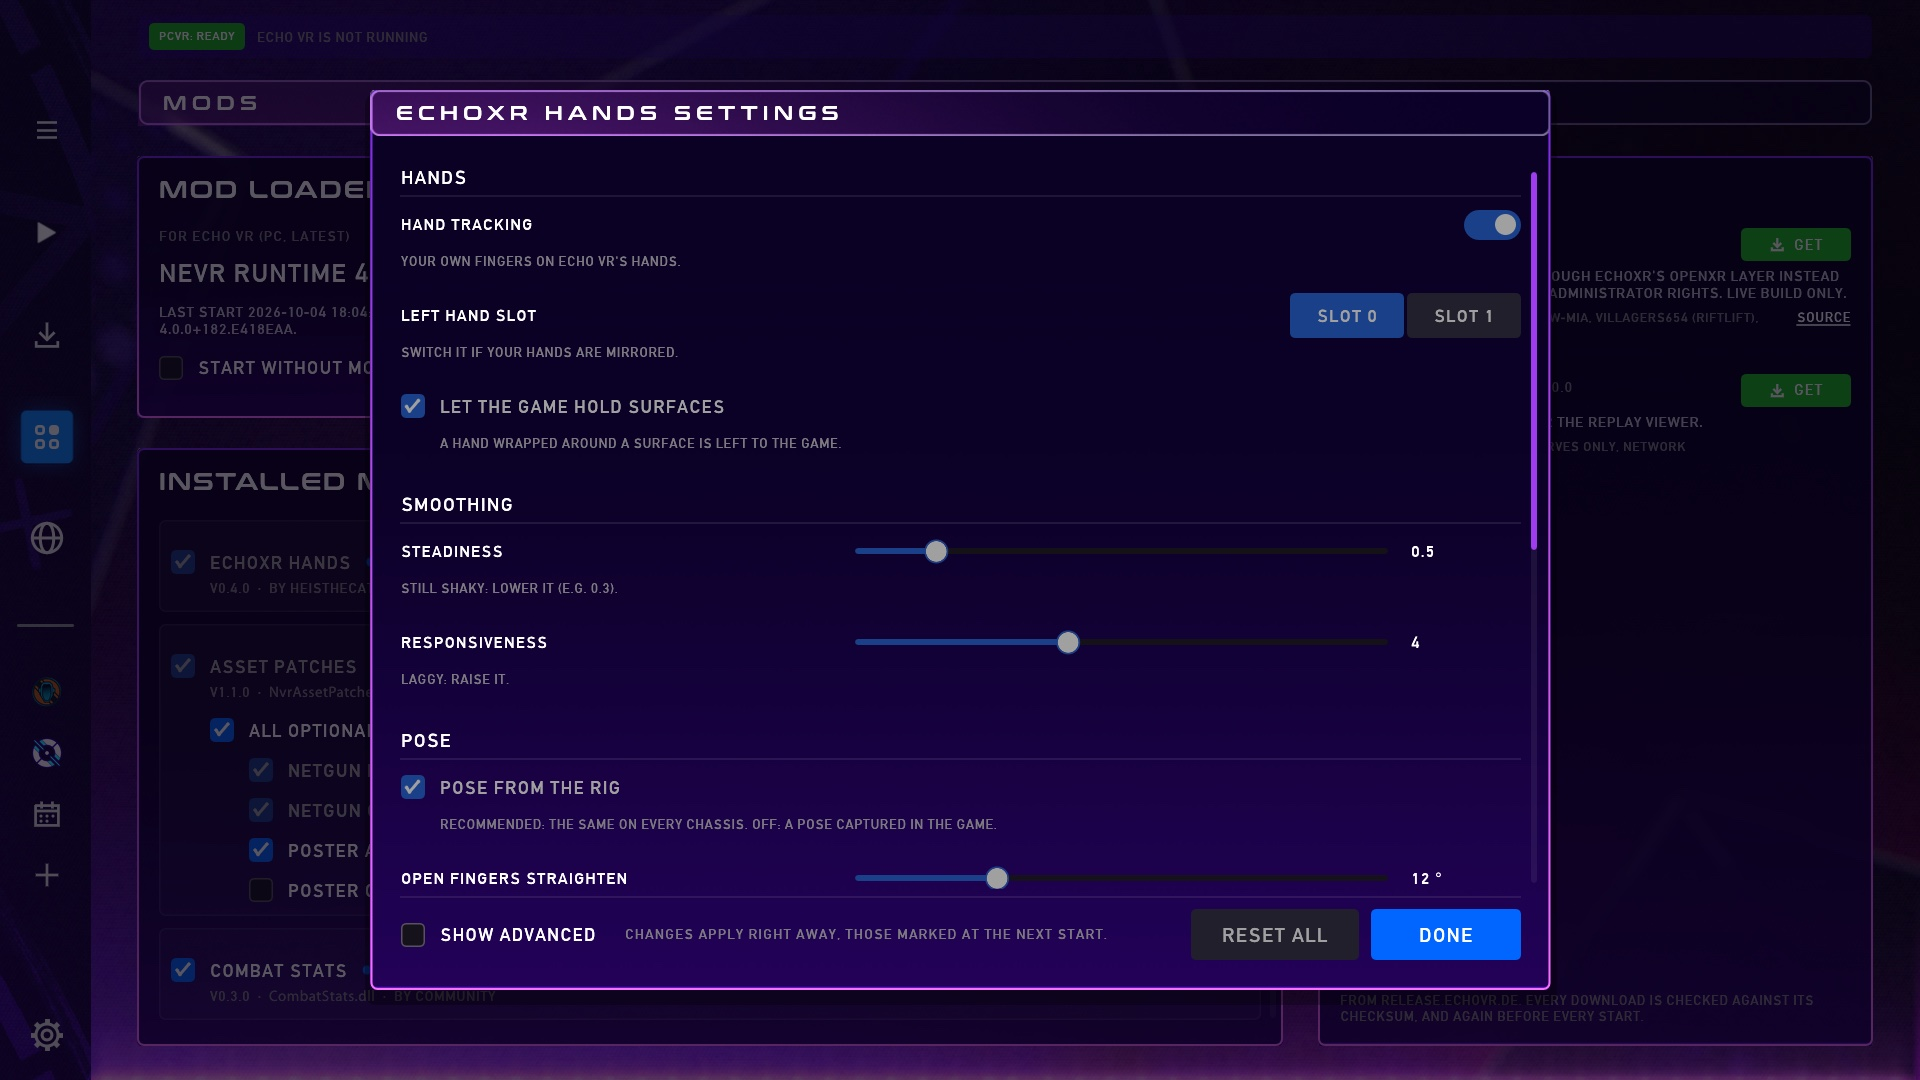
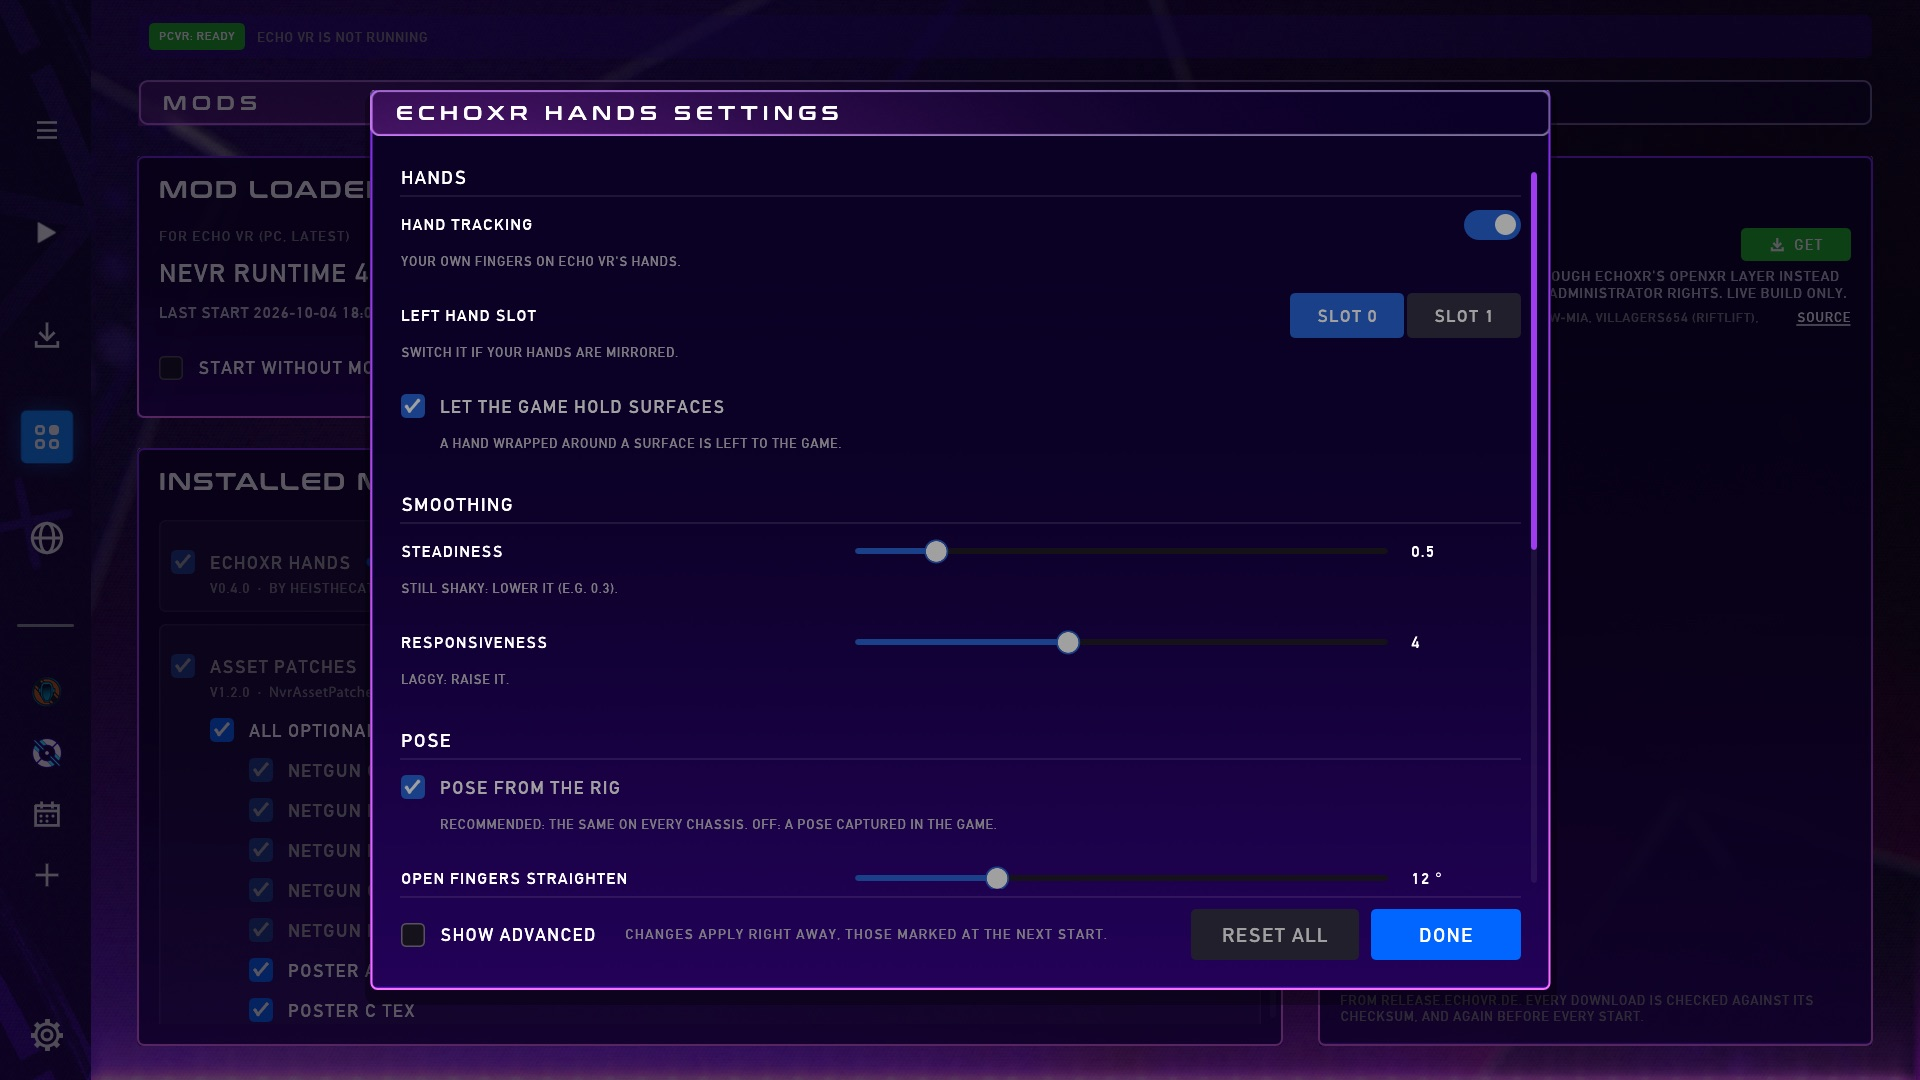
README screenshots: the real mods, plugins and echovrce.com
The Mods page shows what a player has: nEVR 4.0.1, Asset Patches 1.2.0 with
the update's patch list, EchoXR and EchoXR Hands to get. The made-up Combat
Stats, Replay Recorder and broken DLL stay only in the layout-test shots.
Event lobbies shows as installed at its current 0.1.1. The EchoVRCE page is
the real site, signed in, with the account blurred.

diff --git a/src/ui/launcher/mods.rs b/src/ui/launcher/mods.rs
@@ -2321,7 +2321,90 @@ fn showcase() -> serde_json::Value {
     })
 }
 
-/// Made-up mods for snapshots (`variant`: no loader yet, or a plugin's options open).
+/// A made-up catalogue mod and a DLL that fails to load, for the layout tests only.
+fn made_up_plugins() -> Vec<Plugin> {
+    let status = |file: &str, name: &str, version: &str, st: &str, error: &str| PluginStatus {
+        file: file.into(),
+        name: name.into(),
+        version: version.into(),
+        api: 5,
+        status: st.into(),
+        error: error.into(),
+        ..Default::default()
+    };
+    let plugin = |file: &str, name: &str, source: Source, st: PluginStatus| Plugin {
+        file: file.into(),
+        name: name.into(),
+        version: st.version.clone(),
+        added: true,
+        required: false,
+        verified: source != Source::Local,
+        source,
+        enabled: true,
+        args: Default::default(),
+        defaults: Default::default(),
+        present: true,
+        status: Some(st),
+        settings: None,
+    };
+    vec![
+        plugin(
+            "CombatStats.dll",
+            "combat_stats",
+            Source::Catalog {
+                id: "combat-stats".into(),
+                version: "0.3.0".into(),
+            },
+            status("CombatStats.dll", "combat_stats", "0.3.0", "loaded", ""),
+        ),
+        plugin(
+            "MyTweak.dll",
+            "MyTweak",
+            Source::Local,
+            status(
+                "MyTweak.dll",
+                "MyTweak",
+                "",
+                "failed",
+                "missing NvrPluginGetInfo export",
+            ),
+        ),
+    ]
+}
+
+/// The catalogue entries of [`made_up_plugins`] (an update for one, one not installed).
+fn made_up_catalog() -> Vec<ModEntry> {
+    vec![
+        ModEntry {
+            id: "combat-stats".into(),
+            name: "Combat Stats".into(),
+            summary: "Your damage, eliminations and accuracy after every combat round, in a panel on your wrist.".into(),
+            author: "community".into(),
+            version: "0.3.1".into(),
+            file: "CombatStats.dll".into(),
+            url: "mods/CombatStats-0.3.1.dll".into(),
+            sha256: Some("00".repeat(32)),
+            size: Some(412_000),
+            capabilities: vec!["observes-only".into()],
+            ..Default::default()
+        },
+        ModEntry {
+            id: "replay-recorder".into(),
+            name: "Replay Recorder".into(),
+            summary: "Records your matches for the replay viewer.".into(),
+            author: "community".into(),
+            version: "1.0.0".into(),
+            file: "ReplayRecorder.dll".into(),
+            url: "mods/ReplayRecorder-1.0.0.dll".into(),
+            sha256: Some("11".repeat(32)),
+            size: Some(1_830_000),
+            capabilities: vec!["observes-only".into(), "network".into()],
+            ..Default::default()
+        },
+    ]
+}
+
+/// The Mods page for snapshots, as a player has it (`variant`: no loader yet, a plugin's options open...).
 fn demo(variant: Option<SnapVariant>) -> Mods {
     let status = |file: &str, name: &str, version: &str, st: &str, error: &str| PluginStatus {
         file: file.into(),
@@ -2349,47 +2432,27 @@ fn demo(variant: Option<SnapVariant>) -> Mods {
     };
     let bare = variant == Some(SnapVariant::ModsNoLoader);
     let long = variant == Some(SnapVariant::ModsLongText);
-    let mut plugins = vec![
-        plugin(
+    // What a player really has: nEVR's Asset Patches. The layout tests (long text, every control)
+    // get a made-up catalogue mod and a broken DLL of their own; they aren't published.
+    let mut plugins = vec![plugin(
+        "NvrAssetPatches.dll",
+        "NvrAssetPatches",
+        Source::Shipped,
+        Some(status(
             "NvrAssetPatches.dll",
             "NvrAssetPatches",
-            Source::Shipped,
-            Some(status(
-                "NvrAssetPatches.dll",
-                "NvrAssetPatches",
-                "1.1.0",
-                "loaded",
-                "",
-            )),
-        ),
-        plugin(
-            "CombatStats.dll",
-            "combat_stats",
-            Source::Catalog {
-                id: "combat-stats".into(),
-                version: "0.3.0".into(),
-            },
-            Some(status(
-                "CombatStats.dll",
-                "combat_stats",
-                "0.3.0",
-                "loaded",
-                "",
-            )),
-        ),
-        plugin(
-            "MyTweak.dll",
-            "MyTweak",
-            Source::Local,
-            Some(status(
-                "MyTweak.dll",
-                "MyTweak",
-                "",
-                "failed",
-                "missing NvrPluginGetInfo export",
-            )),
-        ),
-    ];
+            "1.2.0",
+            "loaded",
+            "",
+        )),
+    )];
+    let made_up = matches!(
+        variant,
+        Some(SnapVariant::ModsLongText | SnapVariant::ModsSettingsAll)
+    );
+    if made_up {
+        plugins.extend(made_up_plugins());
+    }
     let hands = matches!(
         variant,
         Some(SnapVariant::ModsHands | SnapVariant::ModsSettings | SnapVariant::ModsSettingsAll)
@@ -2462,7 +2525,7 @@ fn demo(variant: Option<SnapVariant>) -> Mods {
             Loader::None
         } else {
             Loader::Nevr {
-                version: "4.0.0+182.e418eaa".into(),
+                version: "4.0.1".into(),
             }
         },
         enabled: true,
@@ -2476,41 +2539,27 @@ fn demo(variant: Option<SnapVariant>) -> Mods {
         game_config: long.then(|| "_local/config.json".into()),
         stray_dbgcore: false,
         assets_enabled: true,
-        asset_patches: vec![
-            asset("netgun_base", true),
-            asset("netgun_combustion", true),
-            asset("poster_a_tex", true),
-            asset("poster_c_tex", false),
-        ],
+        asset_patches: [
+            "netgun_combustion",
+            "netgun_dyson",
+            "netgun_fission",
+            "netgun_gauss",
+            "netgun_base",
+            "poster_a_tex",
+            "poster_c_tex",
+            "poster_d_tex",
+            "poster_b_desc",
+            "poster_b_tex",
+        ]
+        .into_iter()
+        .map(|l| asset(l, true))
+        .collect(),
     };
     let mut catalog = ModCatalog::builtin();
     catalog.builtin = false;
-    catalog.mods.push(ModEntry {
-        id: "combat-stats".into(),
-        name: "Combat Stats".into(),
-        summary: "Your damage, eliminations and accuracy after every combat round, in a panel on your wrist.".into(),
-        author: "community".into(),
-        version: "0.3.1".into(),
-        file: "CombatStats.dll".into(),
-        url: "mods/CombatStats-0.3.1.dll".into(),
-        sha256: Some("00".repeat(32)),
-        size: Some(412_000),
-        capabilities: vec!["observes-only".into()],
-        ..Default::default()
-    });
-    catalog.mods.push(ModEntry {
-        id: "replay-recorder".into(),
-        name: "Replay Recorder".into(),
-        summary: "Records your matches for the replay viewer.".into(),
-        author: "community".into(),
-        version: "1.0.0".into(),
-        file: "ReplayRecorder.dll".into(),
-        url: "mods/ReplayRecorder-1.0.0.dll".into(),
-        sha256: Some("11".repeat(32)),
-        size: Some(1_830_000),
-        capabilities: vec!["observes-only".into(), "network".into()],
-        ..Default::default()
-    });
+    if made_up {
+        catalog.mods.extend(made_up_catalog());
+    }
     let editing = (variant == Some(SnapVariant::ModsOptions)).then(|| Editing {
         defaults: BTreeMap::from([("logging".into(), "normal".into())]),
         file: "NvrAssetPatches.dll".into(),
@@ -2662,10 +2711,12 @@ mod tests {
     #[test]
     fn additional_plugins_are_the_ones_not_here() {
         let m = demo(None);
-        let (_, view, _) = m.view.as_ref().unwrap();
-        let catalog = m.catalog.as_ref().unwrap();
+        let (_, mut view, _) = m.view.clone().unwrap();
+        view.plugins.extend(made_up_plugins());
+        let mut catalog = m.catalog.clone().unwrap();
+        catalog.mods.extend(made_up_catalog());
         let ids = |vr| {
-            extras(Some(view), catalog, vr)
+            extras(Some(&view), &catalog, vr)
                 .iter()
                 .map(|e| e.info().id)
                 .collect::<Vec<_>>()
@@ -2684,7 +2735,7 @@ mod tests {
         // An update is offered on the plugin's row instead.
         let combat = view.plugins.iter().find(|p| p.file == "CombatStats.dll");
         assert_eq!(
-            update_for(combat.unwrap(), Some(catalog)).map(|m| m.version),
+            update_for(combat.unwrap(), Some(&catalog)).map(|m| m.version),
             Some("0.3.1".to_string())
         );
     }

diff --git a/src/ui/launcher/plugins.rs b/src/ui/launcher/plugins.rs
@@ -1130,10 +1130,12 @@ fn demo() -> PluginsUi {
         return ui;
     };
     let id = page.id.clone();
+    // Installed from the catalogue at its current version, as a player has it.
+    let page_version = page.version.clone();
     ui.list.push(Installed {
         page: std::sync::Arc::new(page),
         dir: std::path::PathBuf::new(),
-        from_catalog: Some("0.1.0".into()),
+        from_catalog: Some(page_version),
         warnings: Vec::new(),
     });
     let mut v = View {

diff --git a/README.md b/README.md
@@ -14,11 +14,11 @@ Help and news are on the [Echo VR Lounge Discord](https://discord.com/invite/ech
 |---|---|
 | ![Play](docs/screenshots/01-play.jpg) **Play**: PLAY, the news, who's online, invites and friends to join | ![Install](docs/screenshots/02-install.jpg) **Install**: the live build and the event builds, your library |
 | ![Mods](docs/screenshots/03-mods.jpg) **Mods**: nEVR, the mods you have and more to get | ![Mod settings](docs/screenshots/04-mod-settings.jpg) **A mod's settings**, drawn from its own description |
-| ![Servers](docs/screenshots/05-servers.jpg) **Servers**: the live matches, your match, party and friends | ![EchoVRCE](docs/screenshots/06-echovrce.jpg) **EchoVRCE**: your community account |
+| ![Servers](docs/screenshots/05-servers.jpg) **Servers**: the live matches, your match, party and friends | ![EchoVRCE](docs/screenshots/06-echovrce.jpg) **EchoVRCE**: echovrce.com inside the launcher, signed in |
 | ![Friends](docs/screenshots/07-friends.jpg) **Friends**: requests, finding players, who you played with | ![Plugins](docs/screenshots/08-plugins.jpg) **Plugins**: apps inside the launcher, each with its own tab |
 | ![Event lobbies](docs/screenshots/09-event-lobbies.jpg) **Event lobbies** (a plugin): public matches, join by id, request a server | ![Settings](docs/screenshots/10-settings.jpg) **Settings**: how you play, launch options, storage, the launcher |
 
-The pictures show made-up players and numbers.
+Players, matches and numbers in the pictures are made up; the mods and plugins are the real ones. The EchoVRCE page is the real site, with the account blurred.
 
 ## Match links
 
